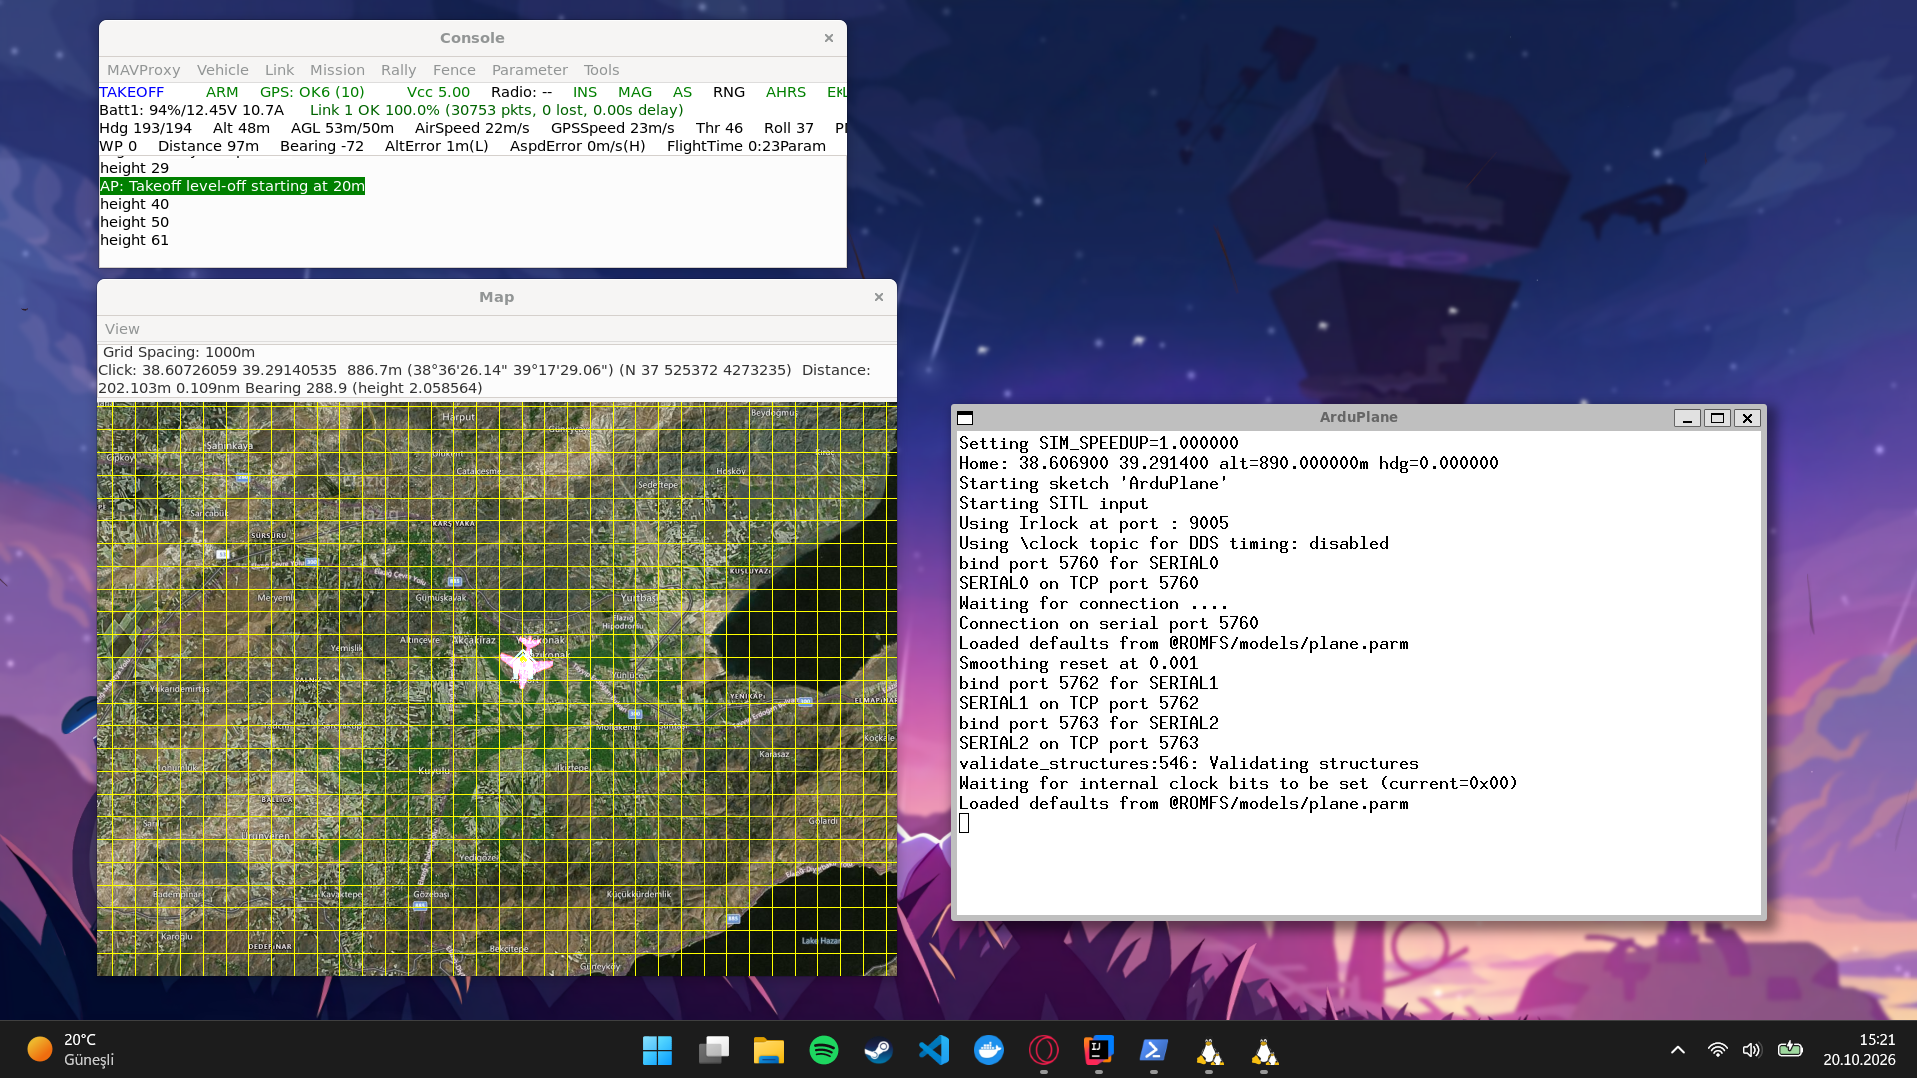
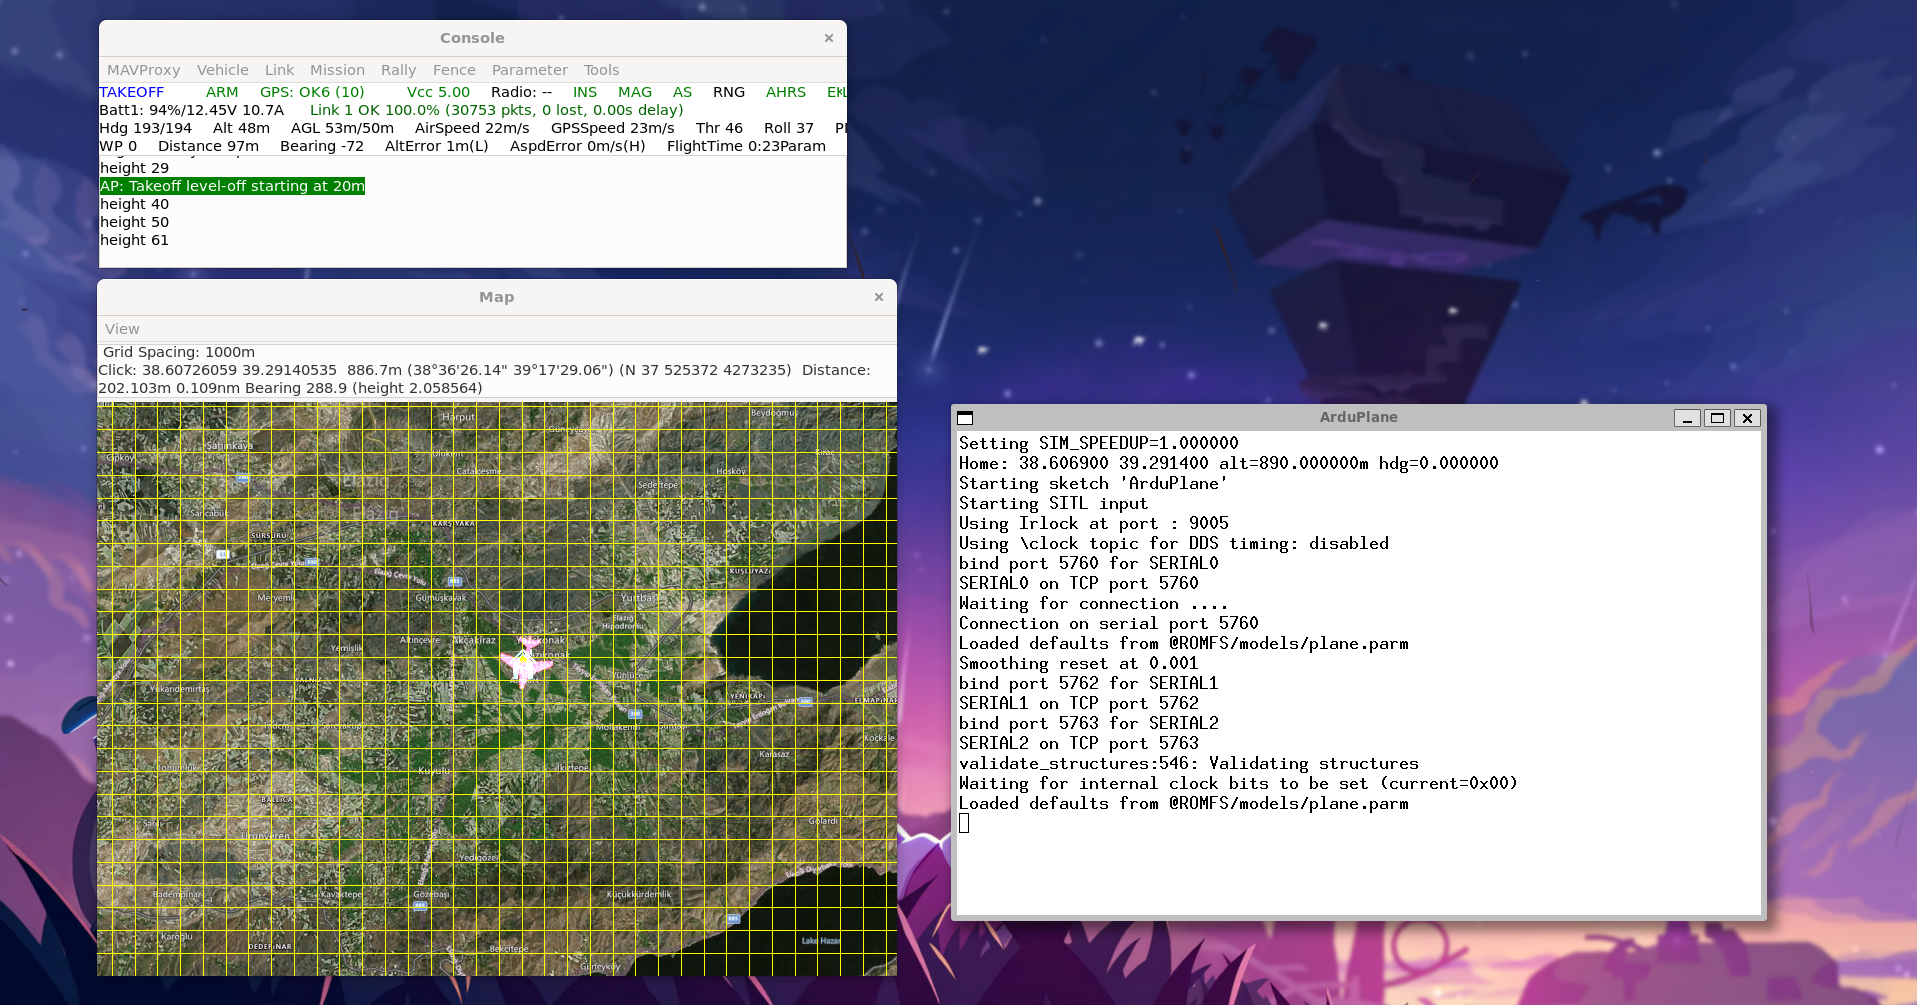
Çoklu İHA telemetri deneyi eklendi

diff --git a/experiments/read_fleet.py b/experiments/read_fleet.py
@@ -1,0 +1,212 @@
+"""
+OTONOM-C3 - Second experiment: read live telemetry from a fleet of ArduPlane SITL aircraft.
+
+What this script does:
+  1. Opens one MAVLink connection per aircraft and waits for its heartbeat.
+  2. Asks every autopilot to start streaming telemetry.
+  3. Reads all connections in a single loop without blocking (no threads).
+  4. Keeps the latest state of each aircraft, keyed by its system ID.
+  5. Prints a table with one row per aircraft once per second.
+
+How to run (inside the Ubuntu / WSL terminal, while SITL is running):
+  sim_vehicle.py -v ArduPlane --count 3 --auto-sysid     (in another terminal)
+  source ~/venv-ardupilot/bin/activate
+  cd /mnt/c/Users/Emirhan/Desktop/otonom-c3/experiments
+  python3 read_fleet.py
+
+Stop with Ctrl+C.
+"""
+
+import time
+
+from pymavlink import mavutil
+
+# --- Fleet configuration ------------------------------------------------------
+# With --count N, sim_vehicle.py starts N SITL instances and shifts every port
+# of instance i by i * 10. SERIAL0 (5760, 5770, ...) is taken by MAVProxy,
+# so we use SERIAL1 (5762, 5772, ...). To grow the fleet, change FLEET_SIZE only.
+FLEET_SIZE = 3
+BASE_PORT = 5762
+PORT_STEP = 10
+
+# --auto-sysid gives instance i the system ID i + 1, so aircraft IHA-1 has
+# MAV_SYSID 1, IHA-2 has 2, and so on.
+EXPECTED_SYSIDS = [i + 1 for i in range(FLEET_SIZE)]
+CONNECTION_STRINGS = [f"tcp:127.0.0.1:{BASE_PORT + i * PORT_STEP}" for i in range(FLEET_SIZE)]
+
+HEARTBEAT_TIMEOUT = 5  # seconds to wait for the first heartbeat of each aircraft
+STREAM_RATE_HZ = 2     # telemetry messages per second, per stream
+STALE_AFTER = 3        # seconds without any message before a link counts as lost
+PRINT_INTERVAL = 1     # seconds between two tables
+
+# The MAVLink message types we care about. Everything else is ignored.
+WANTED = {"HEARTBEAT", "GLOBAL_POSITION_INT", "SYS_STATUS", "GPS_RAW_INT"}
+
+
+def empty_state():
+    """Latest known values of one aircraft. None means "not received yet"."""
+    return {
+        "mode": None,
+        "armed": None,
+        "lat": None,
+        "lon": None,
+        "alt_rel": None,
+        "battery": None,
+        "satellites": None,
+        "last_seen": None,  # time.monotonic() of the last accepted message
+    }
+
+
+# One state dictionary per expected aircraft, keyed by system ID.
+fleet = {sysid: empty_state() for sysid in EXPECTED_SYSIDS}
+
+
+# --- Connecting -----------------------------------------------------------------
+def connect(connection_string):
+    """Open a link and wait for a heartbeat. Returns None if it does not answer."""
+    print(f"Connecting to {connection_string} ...")
+    try:
+        conn = mavutil.mavlink_connection(connection_string)
+    except OSError as err:
+        # Nothing is listening on that port (for example, SITL instance not started).
+        print(f"  WARNING: cannot open {connection_string}: {err}")
+        return None
+
+    # Unlike the first experiment, we wait with a timeout. wait_heartbeat()
+    # returns None if no heartbeat arrives in time, so one missing aircraft
+    # does not stop the whole fleet from starting.
+    if conn.wait_heartbeat(timeout=HEARTBEAT_TIMEOUT) is None:
+        print(f"  WARNING: no heartbeat on {connection_string} "
+              f"after {HEARTBEAT_TIMEOUT}s, skipping it")
+        conn.close()
+        return None
+    print(f"  Connected: system {conn.target_system}, component {conn.target_component}")
+
+    # Ask this autopilot to stream all standard telemetry at STREAM_RATE_HZ.
+    conn.mav.request_data_stream_send(
+        conn.target_system,
+        conn.target_component,
+        mavutil.mavlink.MAV_DATA_STREAM_ALL,
+        STREAM_RATE_HZ,  # rate in Hz
+        1,               # 1 = start streaming, 0 = stop
+    )
+    return conn
+
+
+# --- Handling one message ----------------------------------------------------------
+def handle(msg):
+    """Copy the useful fields of one message into the state of its sender."""
+    if msg.get_type() not in WANTED:
+        return
+
+    # A link can also carry messages from other components (camera, gimbal,
+    # another ground station...). We only trust the autopilot itself.
+    if msg.get_srcComponent() != mavutil.mavlink.MAV_COMP_ID_AUTOPILOT1:
+        return
+
+    # The sender's system ID tells us which aircraft this is - not the link it
+    # came from. Unknown system IDs (not part of our fleet) are ignored.
+    state = fleet.get(msg.get_srcSystem())
+    if state is None:
+        return
+
+    kind = msg.get_type()
+    if kind == "HEARTBEAT":
+        state["mode"] = mavutil.mode_string_v10(msg)
+        state["armed"] = bool(msg.base_mode & mavutil.mavlink.MAV_MODE_FLAG_SAFETY_ARMED)
+
+    elif kind == "GLOBAL_POSITION_INT":
+        # lat/lon are degrees * 10^7, relative_alt is millimetres above home.
+        state["lat"] = msg.lat / 1e7
+        state["lon"] = msg.lon / 1e7
+        state["alt_rel"] = msg.relative_alt / 1000
+
+    elif kind == "SYS_STATUS":
+        # battery_remaining is a percentage, -1 means unknown.
+        state["battery"] = msg.battery_remaining if msg.battery_remaining >= 0 else None
+
+    elif kind == "GPS_RAW_INT":
+        state["satellites"] = msg.satellites_visible
+
+    state["last_seen"] = time.monotonic()
+
+
+# --- Printing the table --------------------------------------------------------------
+def fmt(value, pattern):
+    """Format a value, or show '-' if we have not received it yet."""
+    return "-" if value is None else pattern.format(value)
+
+
+def print_table():
+    now = time.monotonic()
+    header = (f"{'IHA':<7}{'MOD':<11}{'ARMED':<7}{'ENLEM':>12}{'BOYLAM':>13}"
+              f"{'IRTIFA':>9}{'BATARYA':>9}{'UYDU':>6}  {'SON MESAJ':<12}")
+
+    # "\033[2J\033[H" clears the terminal and moves the cursor to the top,
+    # so the table stays in place instead of scrolling.
+    lines = ["\033[2J\033[H" + header, "-" * len(header)]
+
+    for sysid in EXPECTED_SYSIDS:
+        state = fleet[sysid]
+        name = f"IHA-{sysid}"
+        last = state["last_seen"]
+
+        if last is None or now - last > STALE_AFTER:
+            lines.append(f"{name:<7}BAGLANTI YOK")
+            continue
+
+        lines.append(
+            f"{name:<7}"
+            f"{fmt(state['mode'], '{}'):<11}"
+            f"{fmt(state['armed'], '{}'):<7}"
+            f"{fmt(state['lat'], '{:.6f}'):>12}"
+            f"{fmt(state['lon'], '{:.6f}'):>13}"
+            f"{fmt(state['alt_rel'], '{:.1f}m'):>9}"
+            f"{fmt(state['battery'], '{}%'):>9}"
+            f"{fmt(state['satellites'], '{}'):>6}"
+            f"  {now - last:.1f}s once"
+        )
+
+    lines.append("\nCikmak icin Ctrl+C")
+    print("\n".join(lines), flush=True)
+
+
+# --- Main loop -------------------------------------------------------------------------
+connections = [c for c in (connect(cs) for cs in CONNECTION_STRINGS) if c is not None]
+if not connections:
+    print("No aircraft answered. Is SITL running?")
+    raise SystemExit(1)
+print(f"{len(connections)}/{FLEET_SIZE} aircraft connected.")
+
+next_print = time.monotonic()
+try:
+    while True:
+        for conn in connections:
+            # blocking=False returns None immediately when nothing is waiting,
+            # so a quiet aircraft never holds up the others. We drain every
+            # message that is already buffered before moving to the next link.
+            while True:
+                try:
+                    msg = conn.recv_match(blocking=False)
+                except OSError:
+                    # The TCP link broke (SITL instance stopped). Its row will
+                    # turn into "BAGLANTI YOK" after STALE_AFTER seconds.
+                    break
+                if msg is None:
+                    break
+                handle(msg)
+
+        if time.monotonic() >= next_print:
+            print_table()
+            next_print += PRINT_INTERVAL
+
+        # Without a short pause the loop would spin at 100% CPU doing nothing.
+        # 10 ms is far shorter than the 500 ms between two telemetry messages.
+        time.sleep(0.01)
+
+except KeyboardInterrupt:
+    print("\nStopped.")
+
+finally:
+    for conn in connections:
+        conn.close()
